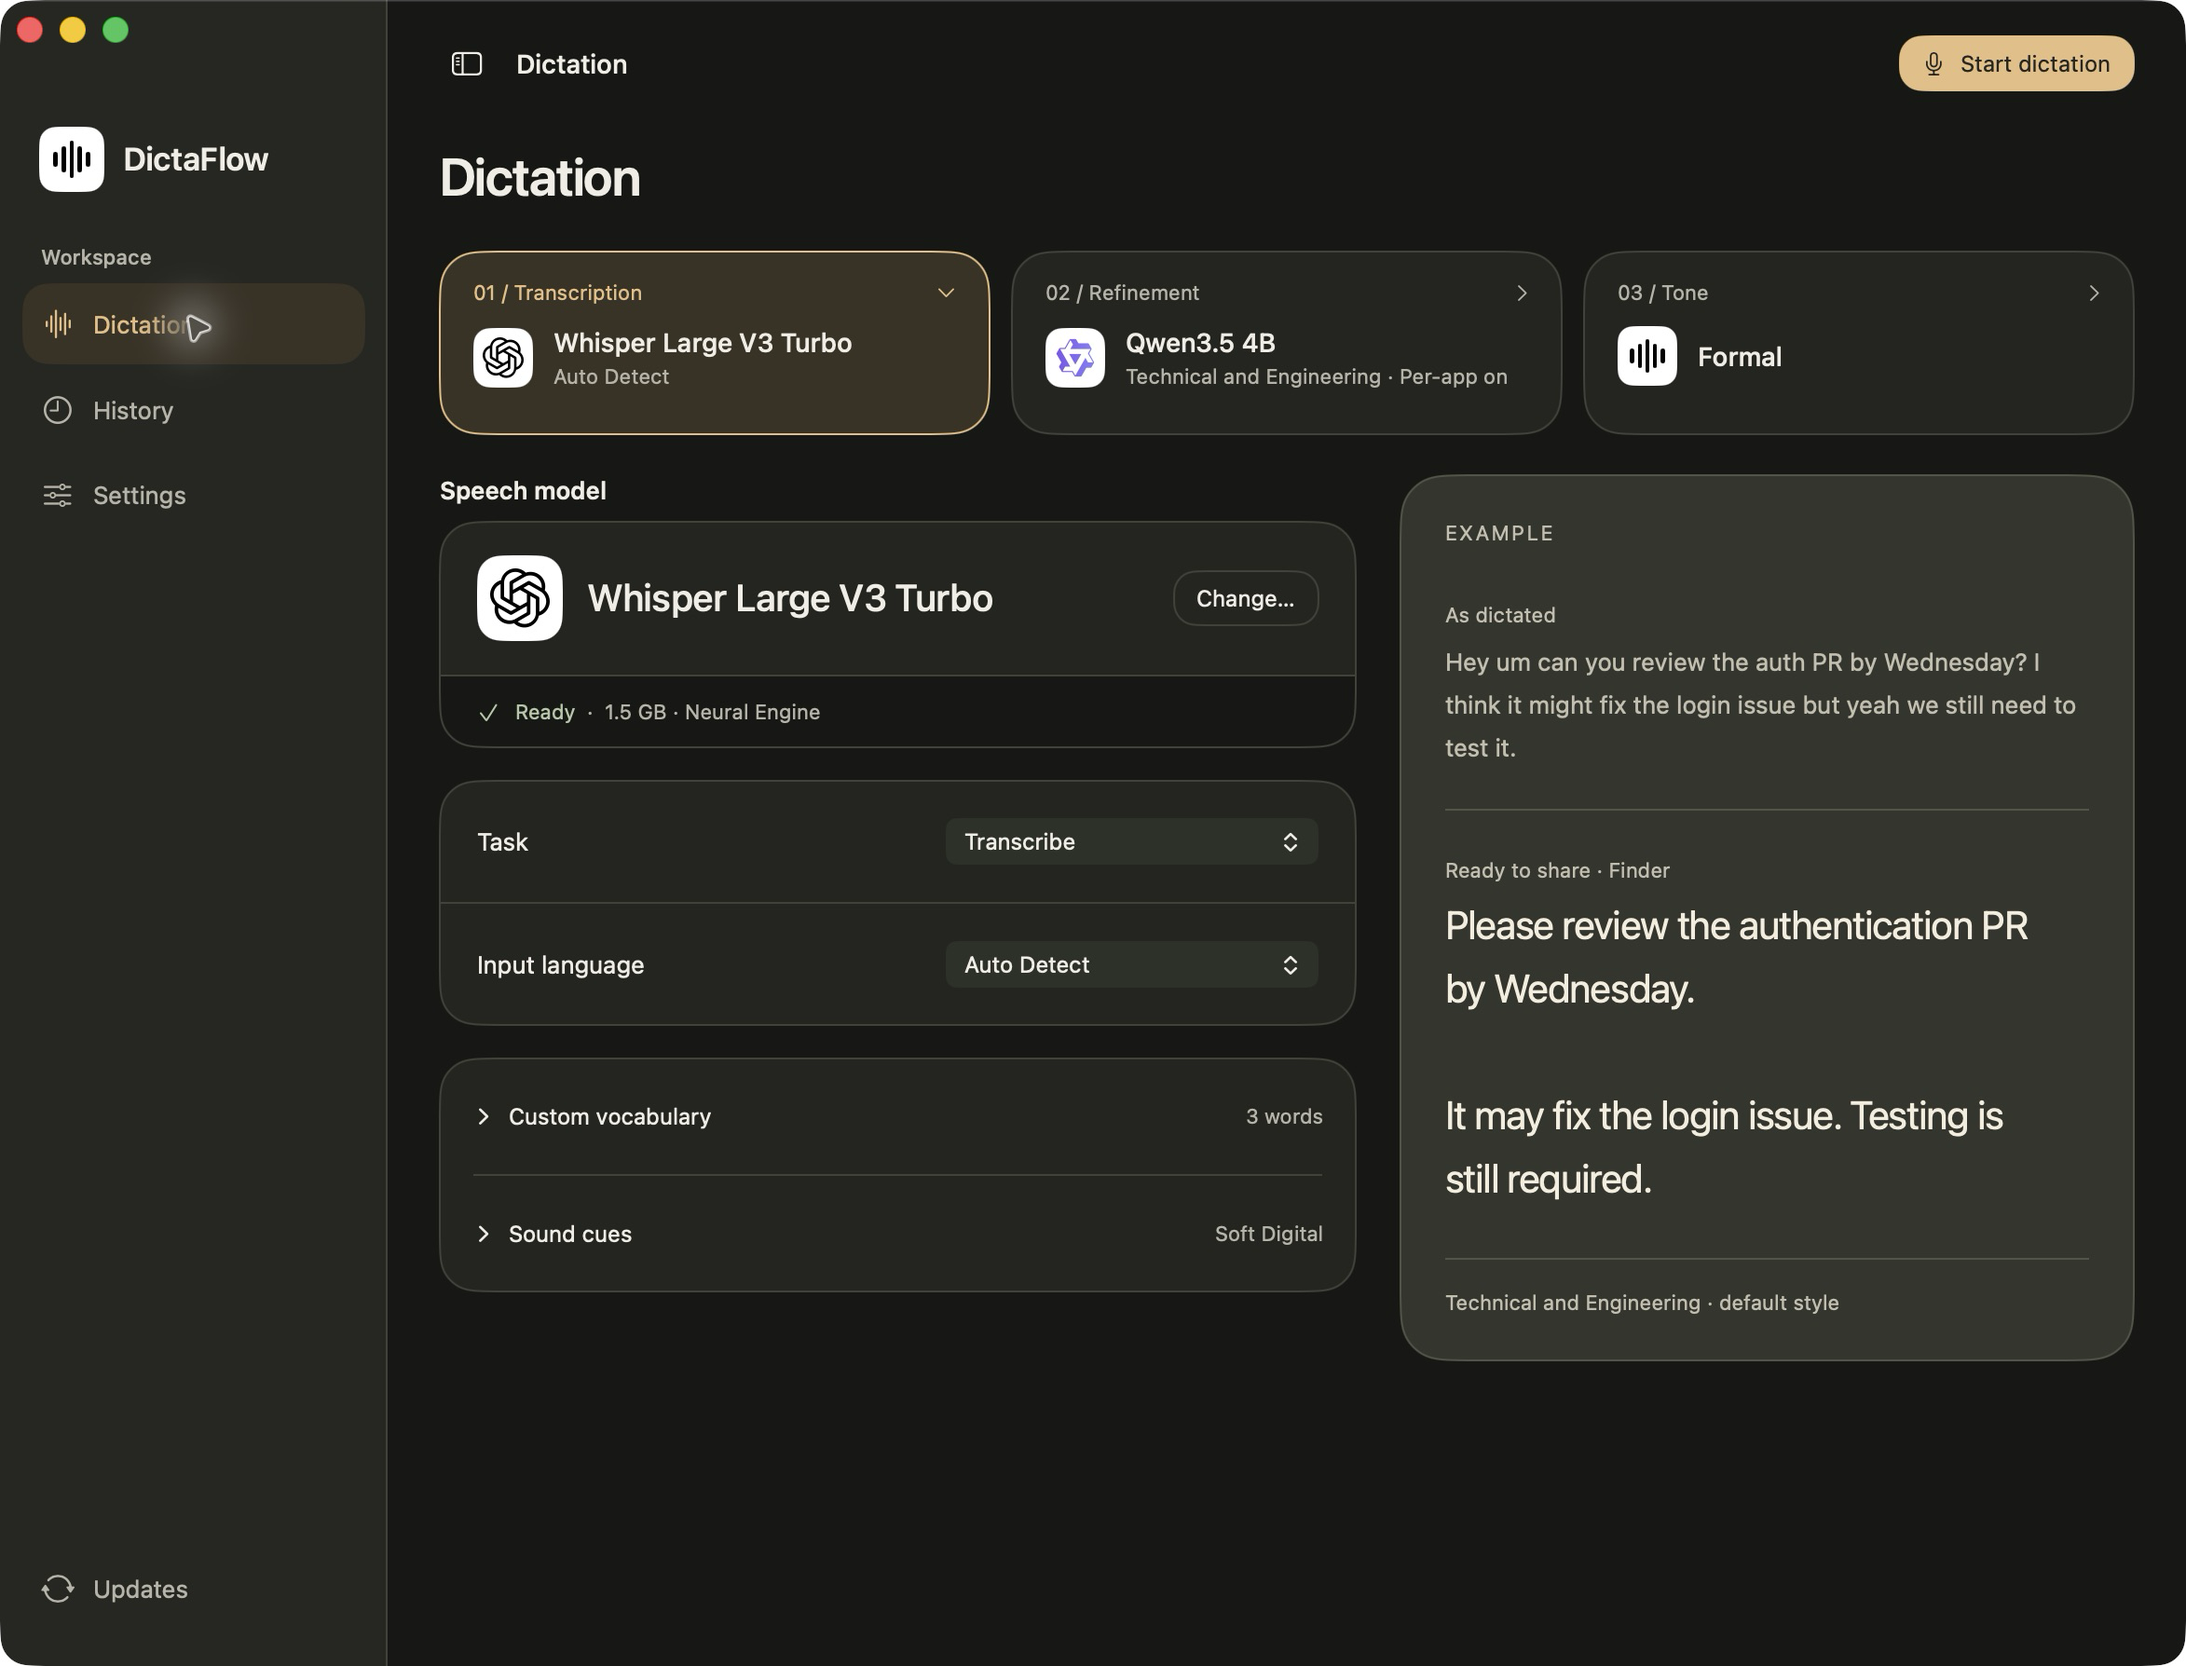
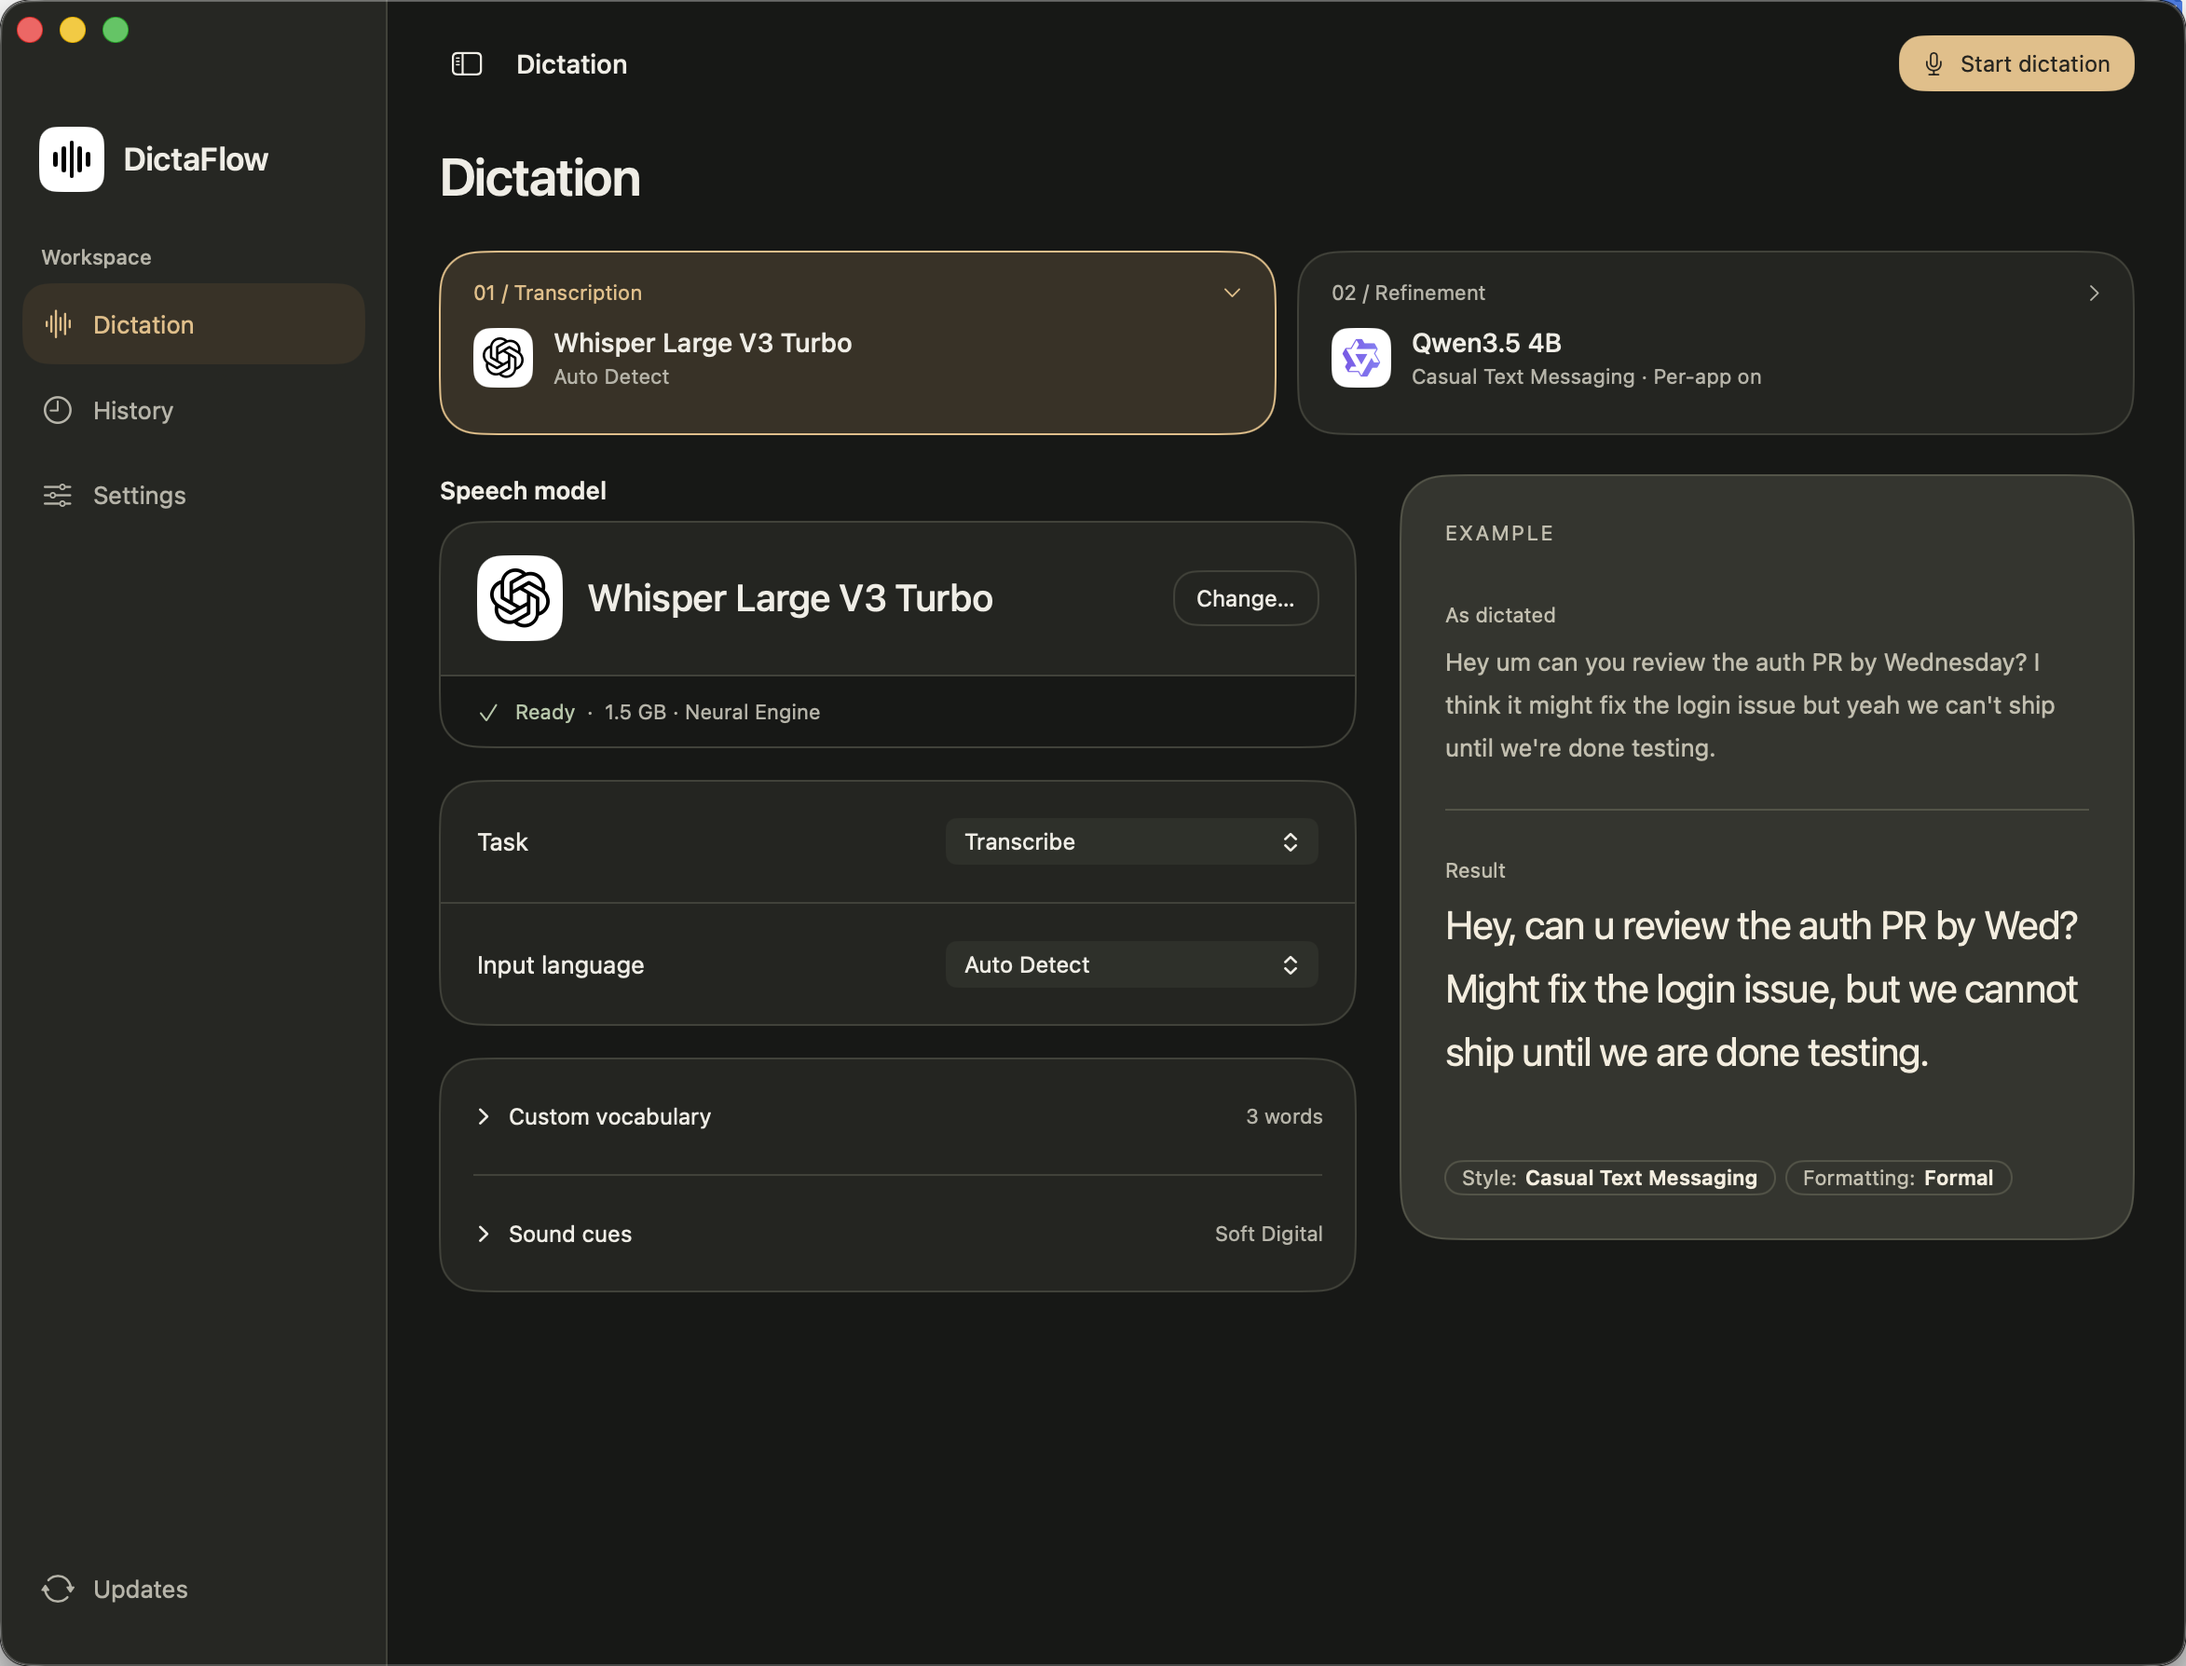
docs: refresh README for final formatting

diff --git a/README.md b/README.md
@@ -21,7 +21,7 @@
 </p>
 
 <p align="center">
-  <img src="public/dictaflow-overview.png" alt="DictaFlow Dictation workspace with local speech and refinement models, tone controls, and a sample text preview" width="900"><br>
+  <img src="public/dictaflow-overview.png" alt="DictaFlow Dictation workspace with local speech and refinement models, final formatting, and a sample text preview" width="900"><br>
   <sub>Your voice, your models, your Mac.</sub>
 </p>
 
@@ -63,16 +63,17 @@ Formal, Casual Text Messaging, or Technical and Engineering. Add your own
 instructions, or use DIY for a fully custom prompt.
 
 You can assign styles to individual apps and let DictaFlow switch when you
-start recording. Separate **Tone** controls offer Original, Balanced, Casual,
-and Formal options, even when refinement is off.
+start recording. Below the styles, a **Final formatting** slider offers
+Casual, Original, and Formal finishing for every app, even when refinement
+is off.
 
 <p align="center">
-  <img src="public/dictaflow-refinement.png" alt="Local refinement settings with a writing style selector and per-app style assignments" width="900"><br>
+  <img src="public/dictaflow-refinement.png" alt="Local refinement settings with a writing style selector, per-app style assignments, and the Final formatting slider" width="900"><br>
   <sub>Choose how your text reads, with processing that stays on your Mac. The preview uses sample text.</sub>
 </p>
 
 Refinement is optional. If it cannot complete, DictaFlow keeps the original
-transcription and applies your selected tone. You can review saved results in
+transcription and applies your selected final formatting. You can review saved results in
 **History** before reusing them.
 
 ## Local by design
